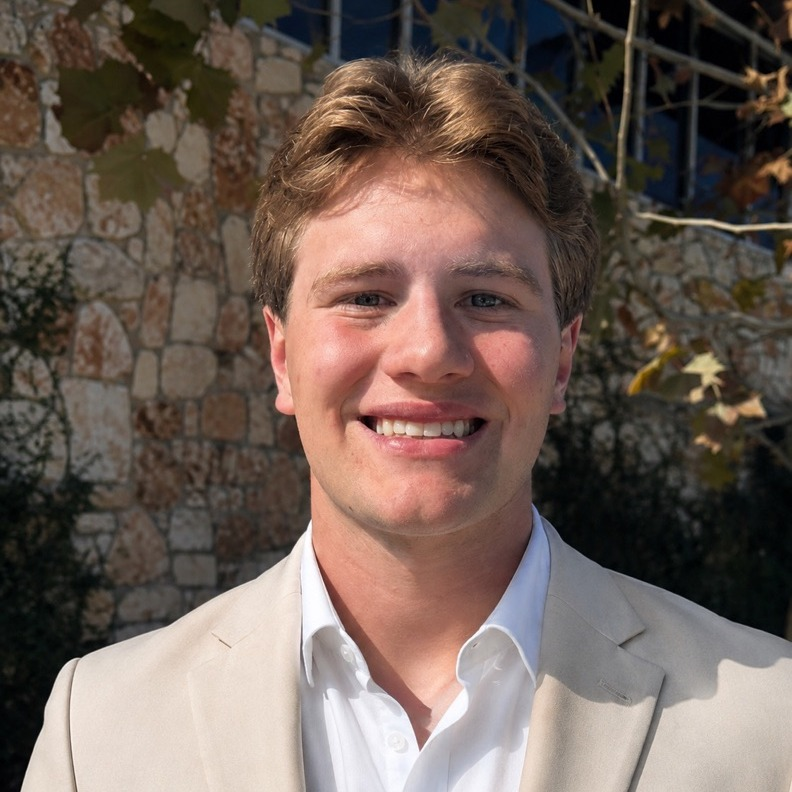
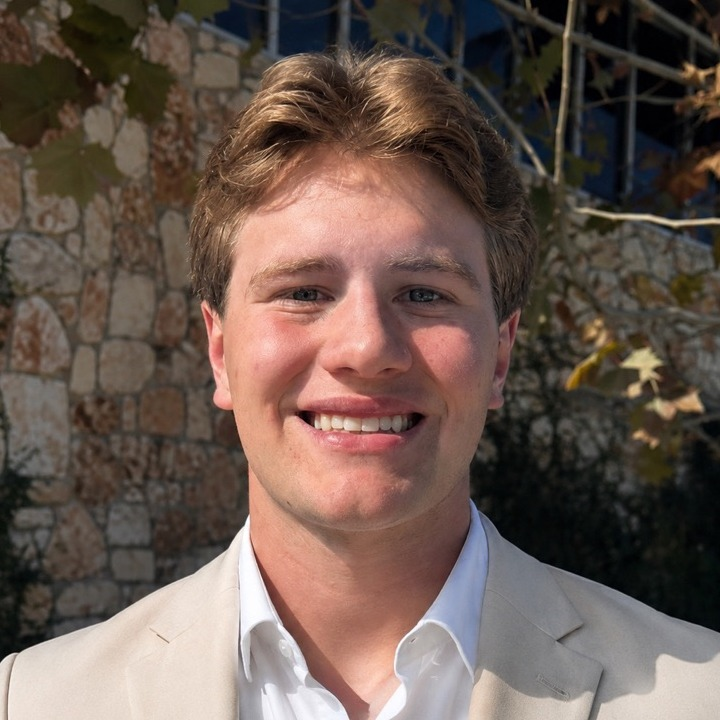
Use Ryan's re-centered headshot.
Replace public/team-ryan.jpg with the 720x720 crop and keep his deck photos on a centered cover.

diff --git a/src/app/deck/BackfieldDeck.tsx b/src/app/deck/BackfieldDeck.tsx
@@ -927,8 +927,8 @@ function Process({onNext,onPrev,onGo,total}:{onNext:()=>void;onPrev:()=>void;onG
 /* ─────────────────────────────────────────────
    ADVISOR CARD
 ───────────────────────────────────────────── */
-function TeamCard({photo,init,name,blurb,number,partnerN,role,tags}:{
-  photo?:string;init:string;name:string;blurb:string;number:string;partnerN:string;role?:string;tags:string[];
+function TeamCard({photo,init,name,blurb,number,partnerN,role,tags,objectPosition="center 22%"}:{
+  photo?:string;init:string;name:string;blurb:string;number:string;partnerN:string;role?:string;tags:string[];objectPosition?:string;
 }) {
   const kicker = role ?? partnerN;
   return (
@@ -942,7 +942,7 @@ function TeamCard({photo,init,name,blurb,number,partnerN,role,tags}:{
         <div style={{width:"38%",position:"relative",flexShrink:0,overflow:"hidden",background:"#0a0a0a"}}>
           {photo ? (
             <>
-              <img src={photo} alt={name} style={{width:"100%",height:"100%",objectFit:"cover",objectPosition:"center 22%",display:"block",filter:"contrast(1.05) saturate(.95)"}}/>
+              <img src={photo} alt={name} style={{width:"100%",height:"100%",objectFit:"cover",objectPosition,display:"block",filter:"contrast(1.05) saturate(.95)"}}/>
               <div style={{position:"absolute",inset:0,background:"linear-gradient(180deg,rgba(0,0,0,0) 55%,rgba(0,0,0,.55) 100%)",pointerEvents:"none"}}/>
             </>
           ) : (
@@ -991,6 +991,7 @@ function Advisors({onNext,onPrev,onGo,total}:{onNext:()=>void;onPrev:()=>void;on
       number:"01",
       partnerN:"01",
       photo:"/team-ryan.jpg",
+      objectPosition:"center",
       init:"RA",
       name:"Ryan Arnold",
       blurb:"Ryan is an entrepreneur and seasoned investor: Founder of Wakescoot Watersports, a venture-backed hardware startup he built from zero to a successful exit in 2023. He has proven operational excellence as the founding Director of Operations at Task Wizard, a high-growth commercial real estate services startup. As a venture associate, he underwrote and ran investment operations across SPVs and raised committed capital for investments like Liquid Death, Slate Milk, Nowadays, and Drumroll Snacks. At Trinity University's Office of Investments, he invested in Private Equity & Venture Capital fund managers on behalf of the university's $2B endowment. Ryan holds a B.S. in Finance from Trinity University, where he played football as an All-Conference defensive back.",
@@ -1623,6 +1624,7 @@ function MobileAdvisors() {
     {
       partnerN:"01",
       photo:"/team-ryan.jpg",
+      objectPosition:"center",
       init:"RA",
       name:"Ryan Arnold",
       blurb:"Ryan is an entrepreneur and seasoned investor: Founder of Wakescoot Watersports, a venture-backed hardware startup he built from zero to a successful exit in 2023. He has proven operational excellence as the founding Director of Operations at Task Wizard, a high-growth commercial real estate services startup. As a venture associate, he underwrote and ran investment operations across SPVs and raised committed capital for investments like Liquid Death, Slate Milk, Nowadays, and Drumroll Snacks. At Trinity University's Office of Investments, he invested in Private Equity & Venture Capital fund managers on behalf of the university's $2B endowment. Ryan holds a B.S. in Finance from Trinity University, where he played football as an All-Conference defensive back.",
@@ -1645,7 +1647,7 @@ function MobileAdvisors() {
         TEAM.
       </div>
       <div className="fu2" style={{display:"flex",flexDirection:"column",gap:18}}>
-        {team.map(({partnerN,role,photo,init,name,blurb,tags})=>(
+        {team.map(({partnerN,role,photo,objectPosition="center top",init,name,blurb,tags})=>(
           <div key={name} style={{
             background:"rgba(255,255,255,.04)",
             border:"1px solid rgba(255,255,255,.09)",
@@ -1659,7 +1661,7 @@ function MobileAdvisors() {
               {/* Photo + name */}
               <div style={{display:"flex",gap:14,marginBottom:18,alignItems:"flex-start"}}>
                 {photo ? (
-                  <img src={photo} alt={name} style={{width:104,height:128,objectFit:"cover",objectPosition:"center top",border:"1px solid rgba(255,255,255,.12)",flexShrink:0}}/>
+                  <img src={photo} alt={name} style={{width:104,height:128,objectFit:"cover",objectPosition,border:"1px solid rgba(255,255,255,.12)",flexShrink:0}}/>
                 ) : (
                   <div style={{width:104,height:128,border:"1px solid rgba(255,255,255,.18)",background:"rgba(255,255,255,.06)",display:"flex",alignItems:"center",justifyContent:"center",flexShrink:0}}>
                     <span style={{fontFamily:BEBAS,fontSize:36,color:CREAM,letterSpacing:1.5}}>{init}</span>
